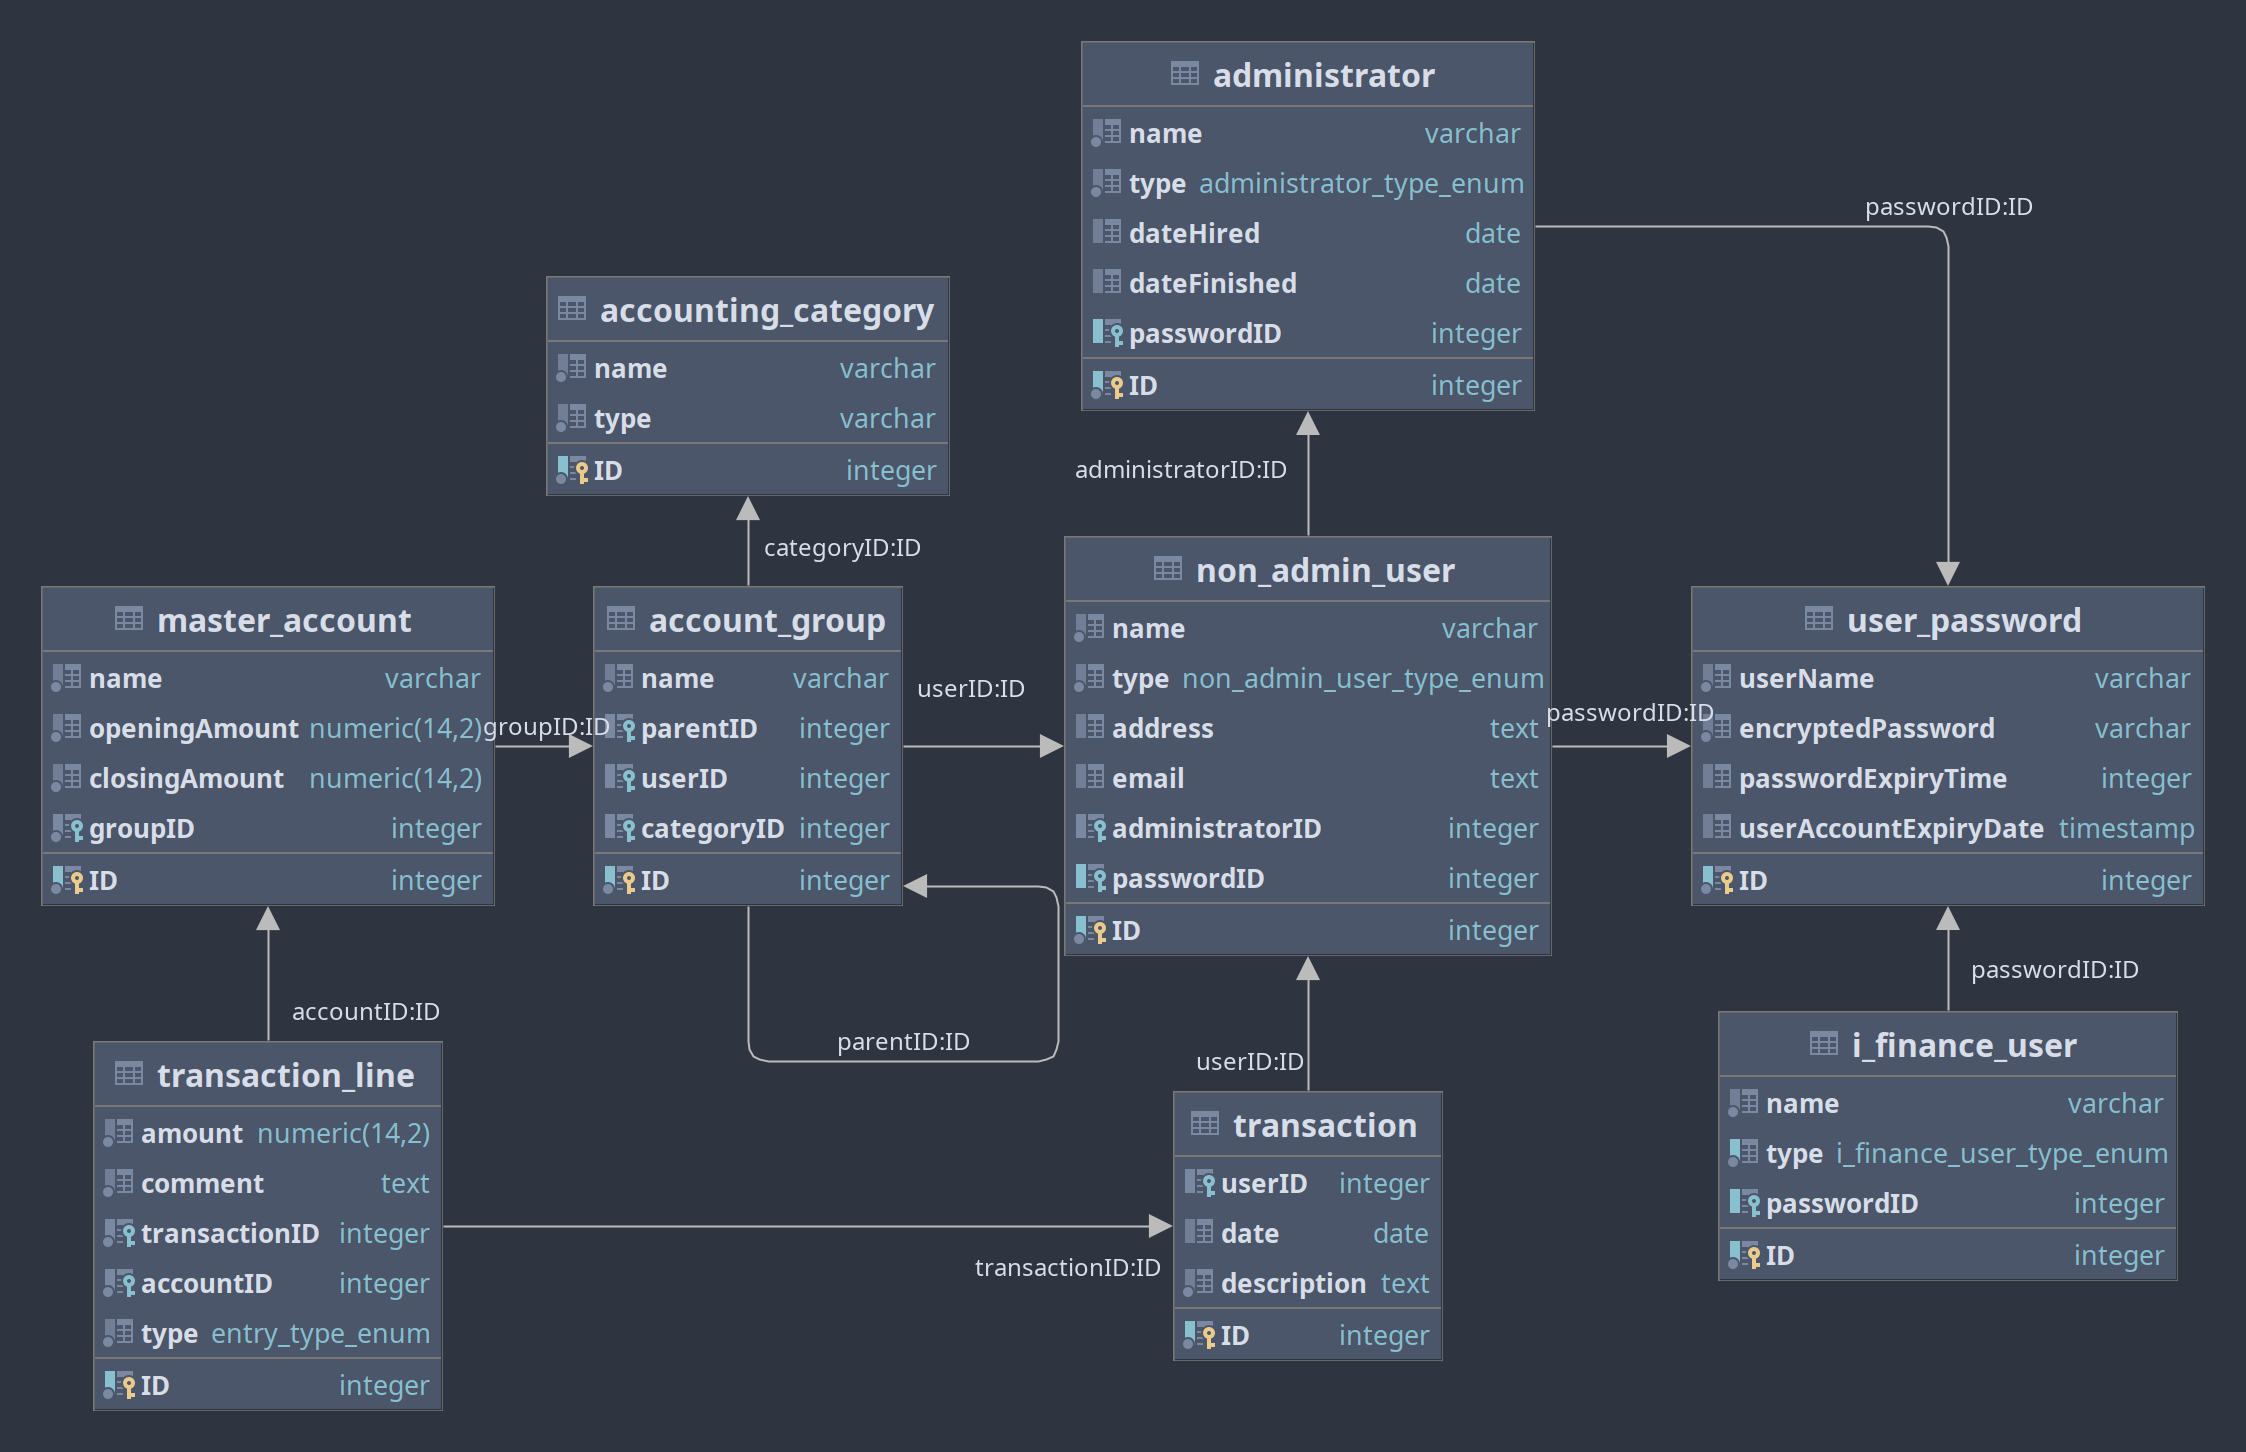
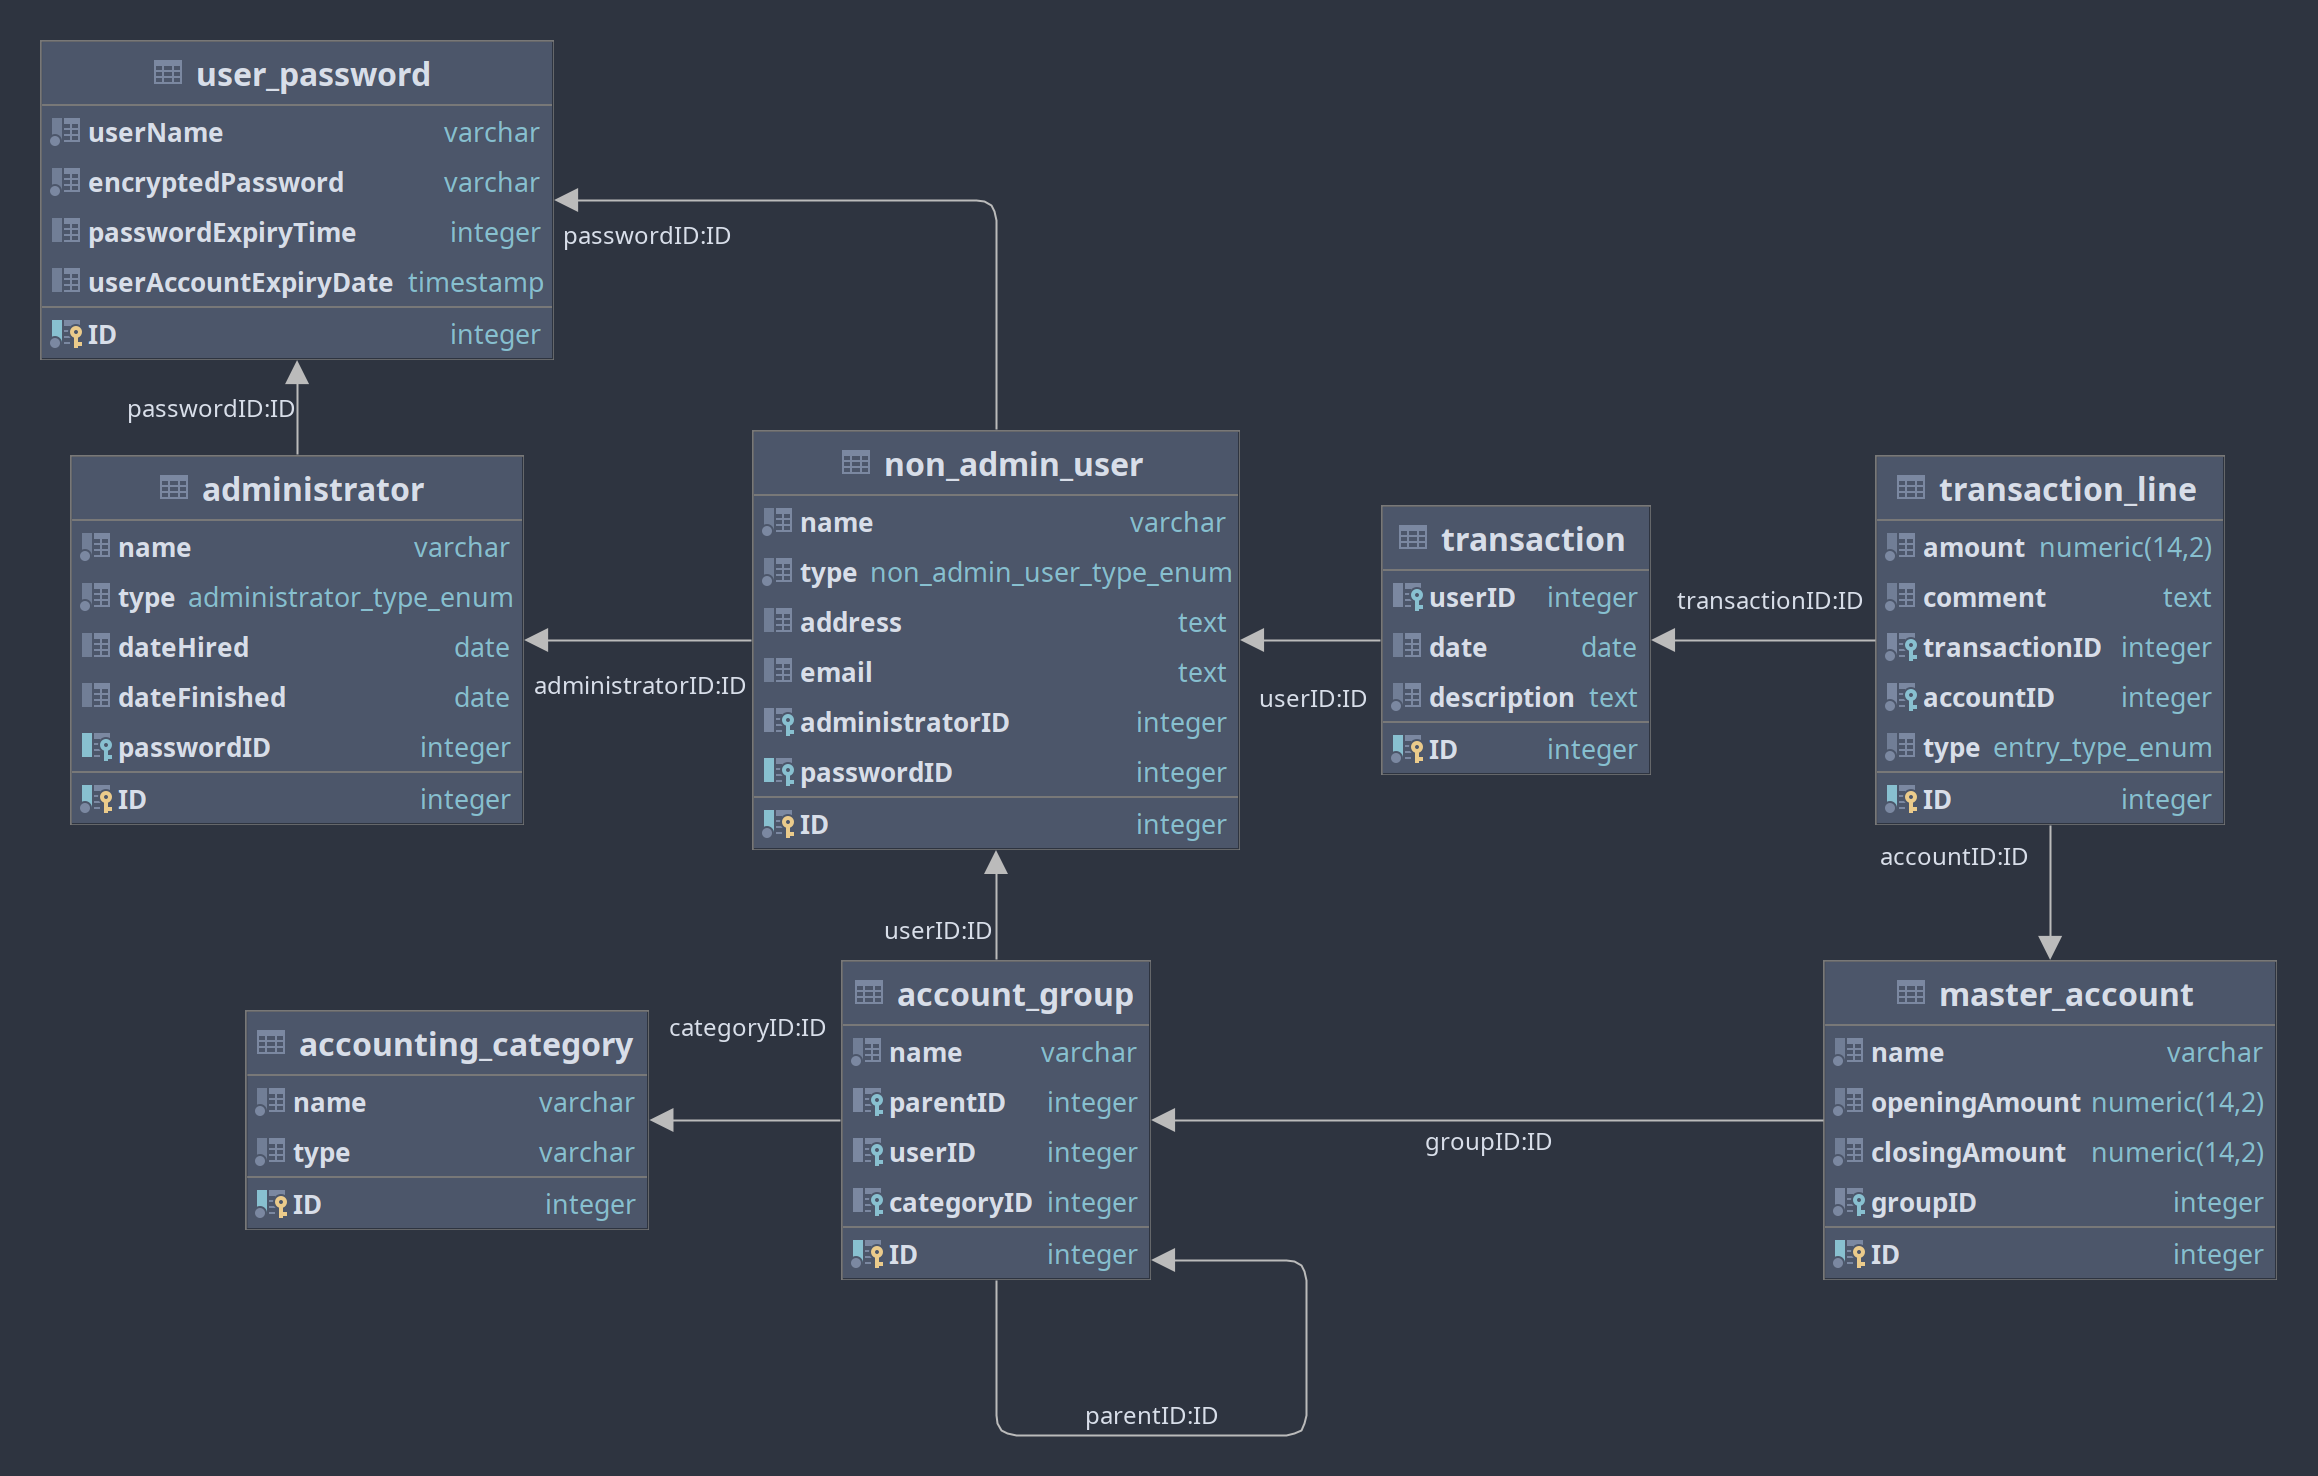
Add tools section

diff --git a/README.md b/README.md
@@ -13,6 +13,10 @@ Group 14 members: Zack Murry, Mike Huber, Jacob York, and Jagger Schmitz
 - [SQL Database Tables](#sql-database-tables)
   - [ER Diagram](#er-diagram)
   - [Further Table Details](#further-table-details)
+- [Overview of Tools](#overview-of-tools)
+  - [Next.js](#next.js)
+  - [Express.js](#express.js)
+  - [NGINX](#nginx)
 
 ## Requirements
 
@@ -106,7 +110,7 @@ The server can be terminated by exiting from the `start.sh` script.
       AccountGroup.ts # account_group table definition
       AccountingCategory.ts # accounting_category table definition
       Administrator.ts # administrator table definition
-      iFINANCEUser.ts # ifinance_user table definition
+      iFINANCEUser.ts # i_finance_user table definition
       MasterAccount.ts # master_account table definition
       NonAdminUser.ts # non_admin_user table definition
       Transaction.ts # transaction table definition
@@ -139,7 +143,7 @@ start.sh # File to install, build, and start web server
 
 ### ER Diagram
 
-The following diagram represents the PostgreSQL schema. The diagram was generated by IntelliJ IDEA.
+The following diagram represents the PostgreSQL schema. The diagram was generated by IntelliJ IDEA. The i_finance_user user is not shown because it managed by TypeORM.
 
 ![Entity-Relation Diagram](er-diagram.png)
 
@@ -167,3 +171,17 @@ Foreign-key constraints:
 Access method: heap
 
 ```
+
+## Overview of Tools
+
+### Next.js
+
+Next.js is a React-based frontend framework for static site generation and server-side rendering. Pages are served based on the location in the directory structure. For example, a page at `/app/transactions/page.tsx` will be served at /transactions. For more information, visit [nextjs.org](nextjs.org).
+
+### Express.js
+
+Express.js is a Node.js-based library for creating HTTP servers. We used the `express-session` library, which allows session-based authentication (i.e., each user has a session ID and a related sesssion profile). For more information about Express.js, visit [expressjs.com](expressjs.com).
+
+### NGINX
+
+NGINX is a versatile server tool that we use as a reverse proxy. Essentially, all requests go to our NGINX server first, which then directs requests to either the frontend server (listening on port 3000) or the backend server (listening on port 8080) based on the request path. Specifically, requests to paths starting with /api are forwarded to the backend and all other requests are sent to the frontend.
